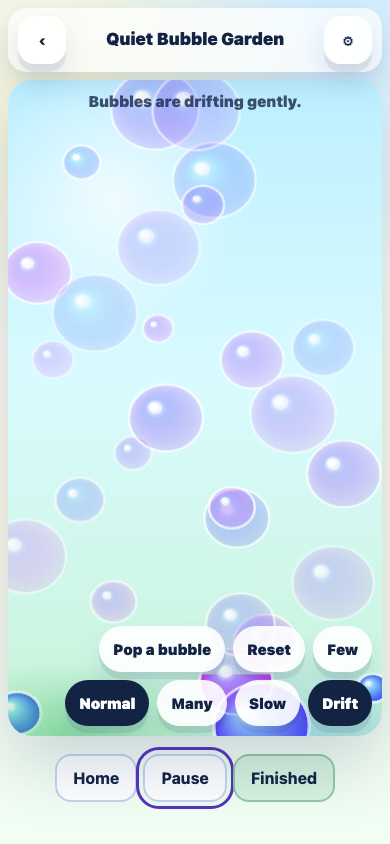
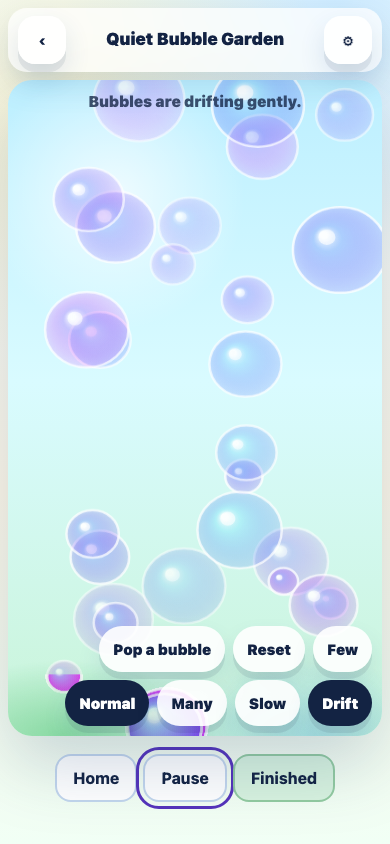
Add safe V2 offline fallback

diff --git a/v2-proofs.css b/v2-proofs.css
@@ -1219,6 +1219,10 @@ body[data-calm="true"] .trail-starscape, body[data-calm="true"] .battery-spark, 
 .planned-worlds p, .world-shell footer { font-size: .9rem; color: #52617a; line-height: 1.6; }
 .world-shell footer { margin-top: 38px; }
 .world-shell footer a { min-height: 44px; display: inline-flex; align-items: center; padding: 0 10px; margin-left: 2px; }
+.offline-shell { min-height: 100svh; display: grid; place-items: center; padding-top: 24px; }
+.offline-card { width: min(640px, 100%); border-radius: 34px; padding: clamp(28px, 8vw, 54px); background: rgba(255,255,255,.9); box-shadow: var(--deep-shadow); text-align: center; }
+.offline-card h1 { margin: 8px 0 10px; font-size: clamp(2rem, 7vw, 4rem); line-height: .98; letter-spacing: 0; }
+.offline-card p { color: #52617a; font-size: 1.05rem; line-height: 1.55; }
 @media (max-width: 760px) { .world-games { grid-template-columns: repeat(2, 1fr); } .planned-worlds { grid-template-columns: repeat(2, 1fr); } .world-section-heading { align-items: start; flex-direction: column; gap: 6px; } }
 @media (max-width: 480px) { .world-games { grid-template-columns: 1fr; } .world-header { gap: 8px; flex-wrap: wrap; } .world-header > a:last-child { margin-left: 0; } .world-welcome { padding-top: 16px; } .session-controls { gap: 6px; } .session-controls a, .session-controls button { padding: 10px 16px; } }
 @media (max-width: 480px) {

diff --git a/v2-offline.html b/v2-offline.html
@@ -1,0 +1,23 @@
+<!doctype html>
+<html lang="en">
+<head>
+  <meta charset="utf-8">
+  <meta name="viewport" content="width=device-width, initial-scale=1">
+  <meta name="robots" content="noindex,nofollow">
+  <title>LeonSal — Offline</title>
+  <link rel="stylesheet" href="v2-proofs.css">
+</head>
+<body class="world-home v2-hub">
+  <main class="world-shell offline-shell">
+    <section class="offline-card" aria-labelledby="offlineTitle">
+      <p class="eyebrow">LEONSAL</p>
+      <h1 id="offlineTitle">This activity needs a connection.</h1>
+      <p>Some activities may still open if they were saved on this device. Nothing is scored or lost.</p>
+      <div class="hub-actions">
+        <a class="hub-primary" href="v2-home.html">Back home</a>
+        <a class="hub-secondary" href="v2-energy-battery.html">Try saved activity</a>
+      </div>
+    </section>
+  </main>
+</body>
+</html>

diff --git a/sw.js b/sw.js
@@ -11,6 +11,7 @@ const SAFE_ASSETS = [
   './v2-trace-engine.html',
   './v2-orbit-engine.html',
   './v2-cause-effect-engine.html',
+  './v2-offline.html',
   './v2-proofs.css',
   './v2-engine.js',
   './js/v2-game-shell.js',
@@ -43,6 +44,6 @@ self.addEventListener('fetch', (event) => {
         if (response.ok) caches.open(CACHE_NAME).then((cache) => cache.put(request, response.clone()));
         return response;
       })
-      .catch(() => caches.match(request))
+      .catch(() => caches.match(request).then((cached) => cached || (request.mode === 'navigate' ? caches.match('./v2-offline.html') : undefined)))
   );
 });

diff --git a/docs/LEONSAL_COMPLETION_CHECKLIST.md b/docs/LEONSAL_COMPLETION_CHECKLIST.md
@@ -35,7 +35,7 @@
 - [x] Add local-only V2 activity notes for caregiver review: visits and Finished sessions are recorded without scores, grades or mastery claims.
 - [x] Add safe V2 offline cache registration for current V2 routes, shared engines and approved Battery web assets, with review/source/QA/rejected paths blocked.
 - [x] Add route-level mobile performance smoke budget for current V2 activities at 390x844, including conservative FPS sampling and long-task observation.
-- [x] Add route-level mobile accessibility smoke for the V2 home and eight current V2 activities at 390x844, including touch target size, accessible names, keyboard settings close, reduced-motion cap, labelled canvases, horizontal overflow and blocked-art request checks.
+- [x] Add route-level mobile accessibility smoke for the V2 home, eight current V2 activities and the offline fallback at 390x844, including touch target size, accessible names, keyboard settings close, reduced-motion cap, labelled canvases, horizontal overflow and blocked-art request checks.
 - [x] Verify the internal character review surface in Chromium and WebKit across phone, tablet and desktop widths, including vector review derivatives, missing-state fallback, dark-background inspection, reference lazy-load and no review-art leakage into gameplay.
 
 These changes remain preview work. They do not approve character art, claim production deployment, or complete all foundation contracts.
@@ -46,7 +46,7 @@ These changes remain preview work. They do not approve character art, claim prod
 - [ ] Complete full game-module preload/mount/start/pause/resume/reset/settings/destroy lifecycle, resource ownership, and repeat-route cleanup tests. The current shared session wrapper handles pause/finish but is not the entire module architecture.
 - [x] Bridge legacy and V2 sensory preference stores for core controls. V2 now validates and exposes motion, sound, voice, music, vibration, calm mode, particles, speed, contrast and pace; the legacy home reads/writes shared motion, sound, vibration and contrast settings. Independent audio levels and deeper profile migration remain outstanding.
 - [x] Implement and verify eight foundation engine contracts: memory-recall, physics-play, character-state-animation, world-shell-progress, asset-loader, performance-monitor, profile-progress-store, hint-feedback. These are foundation primitives, not completed games.
-- [ ] Complete parent/profile controls, full error recovery and full offline behaviour. Local V2 activity notes and a safe V2 route cache now avoid false saved/mastery claims, but multi-profile caregiver controls and robust offline UX are not complete.
+- [ ] Complete parent/profile controls, full error recovery and full offline behaviour. Local V2 activity notes, a safe V2 route cache and a navigation-only offline fallback now avoid false saved/mastery claims, but multi-profile caregiver controls and full offline UX are not complete.
 - [ ] Implement Sensory Mixer using global preference ceilings; presets do not count as games.
 - [ ] Verify repeated route transitions, background suspension, full accessibility and physical iPhone Safari. Viewport-emulated cleanup, accessibility and performance/long-task smoke checks now exist, but physical-device and full screen-reader evidence are still required.
 
